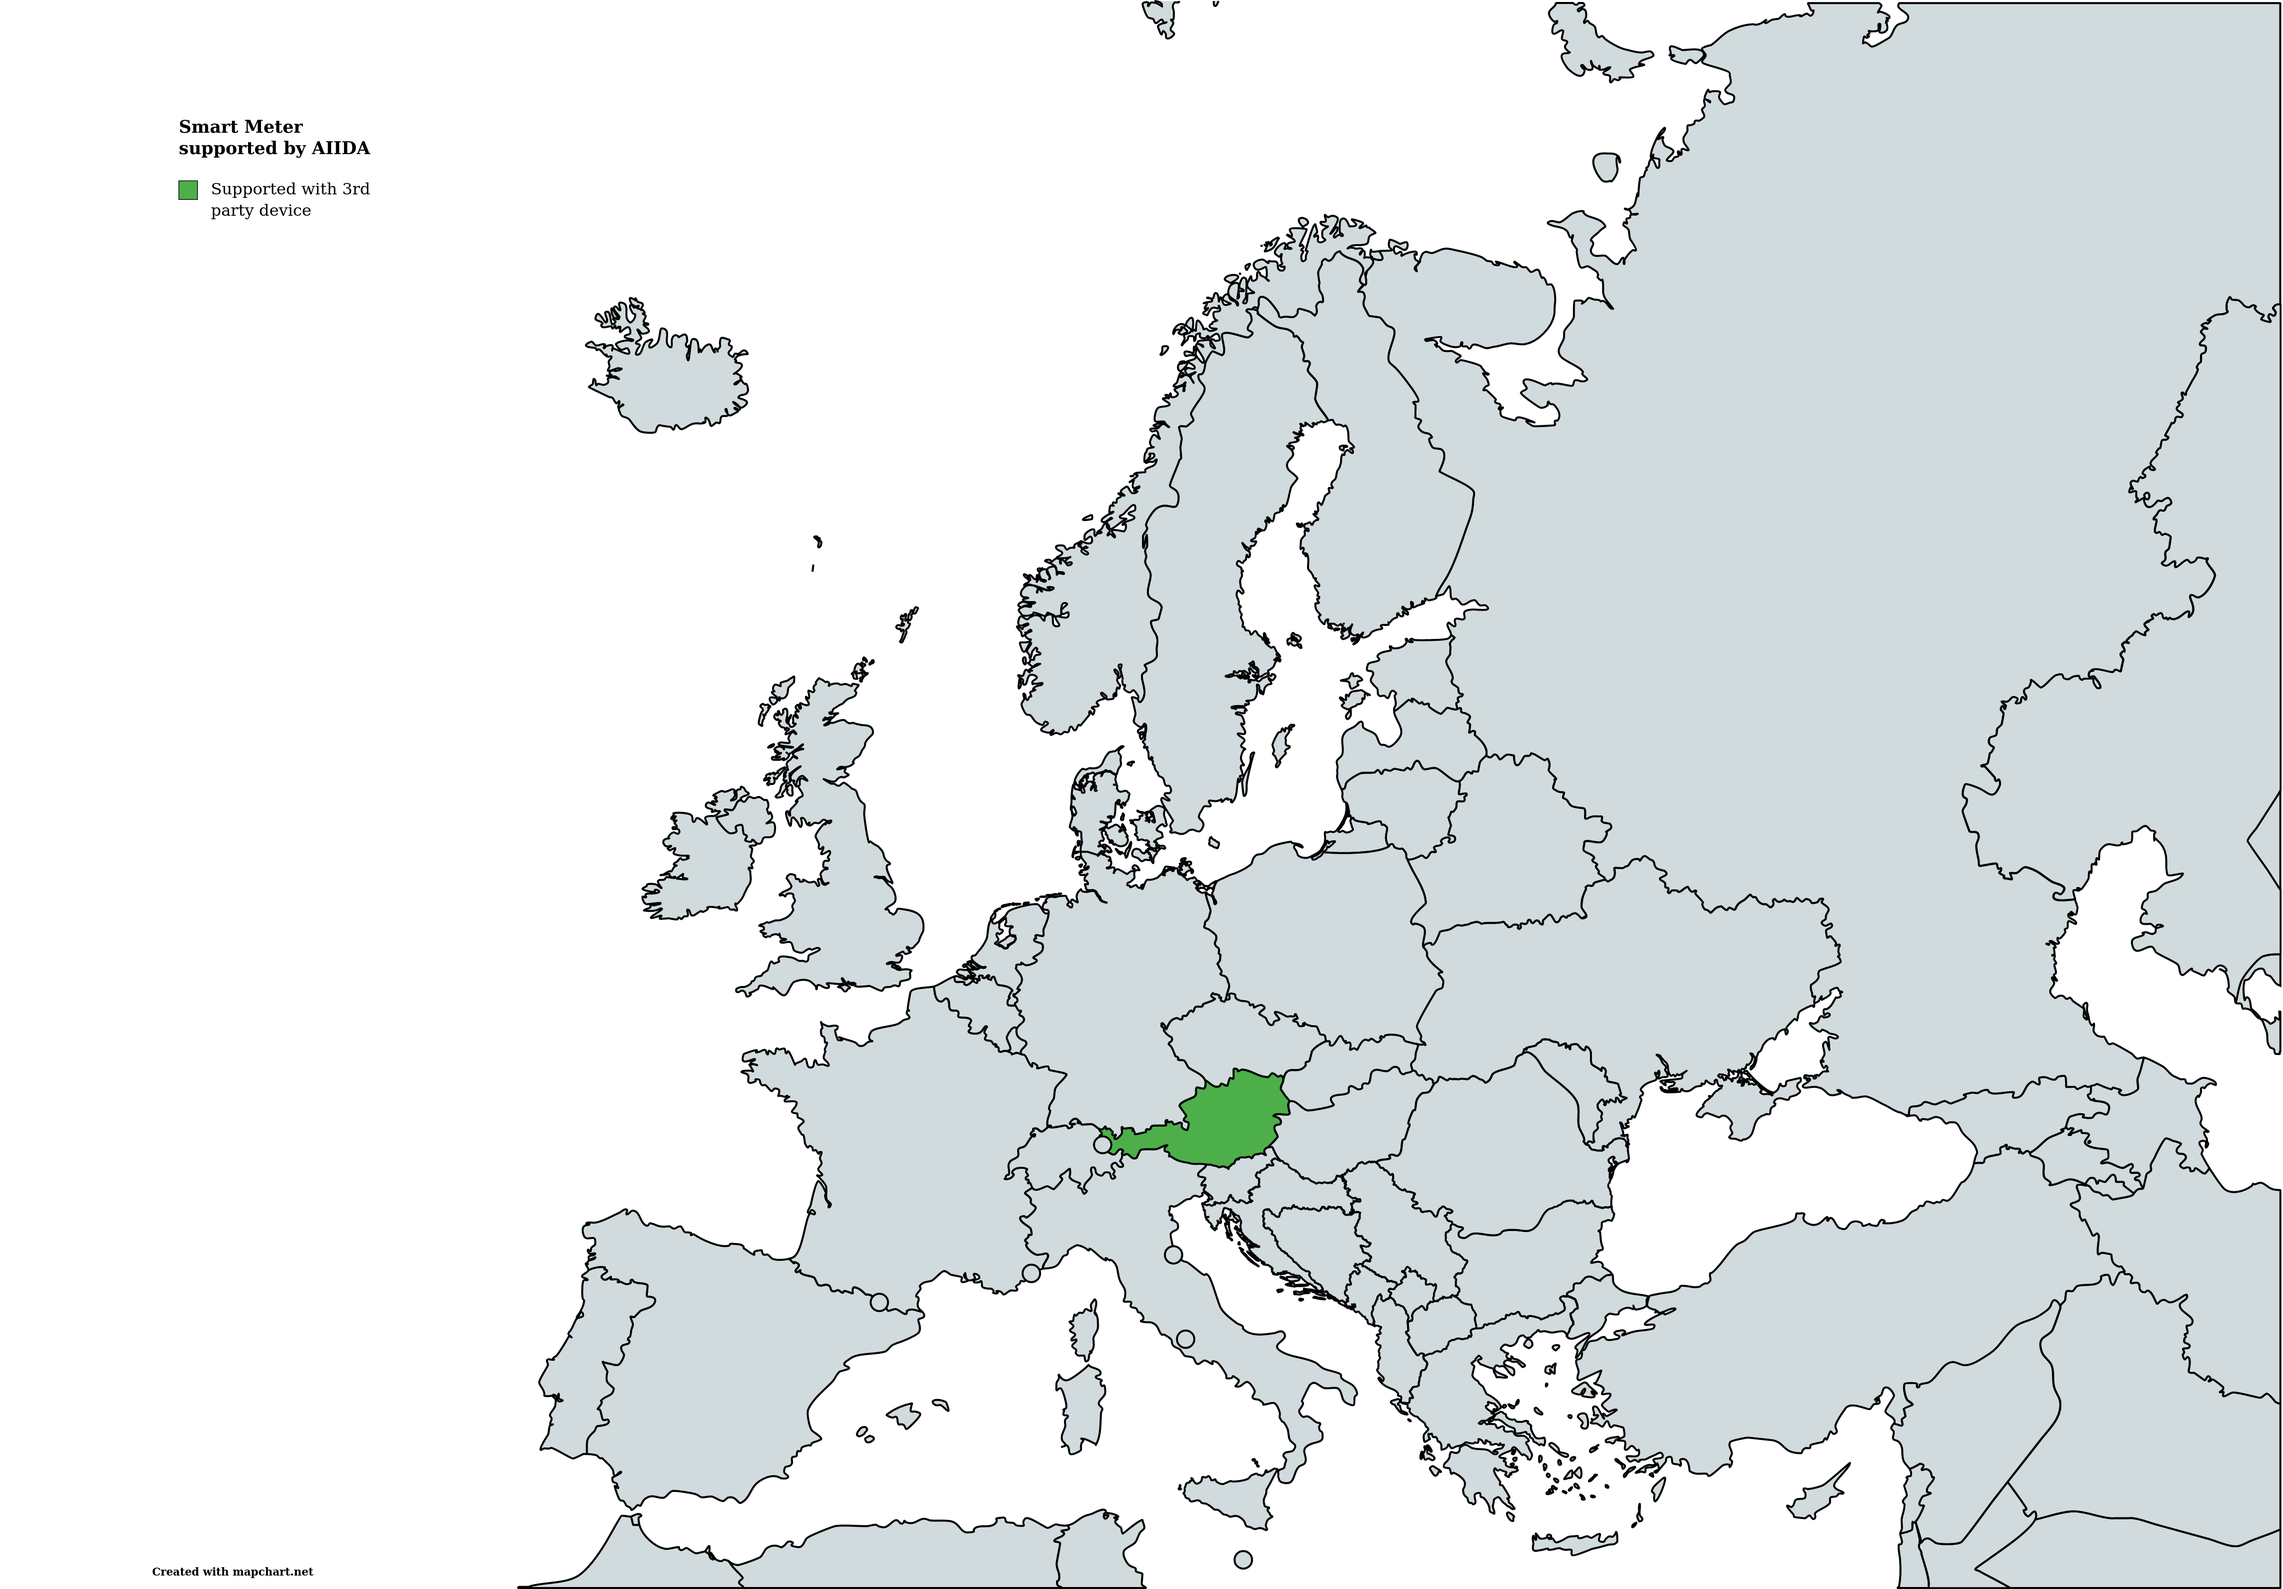
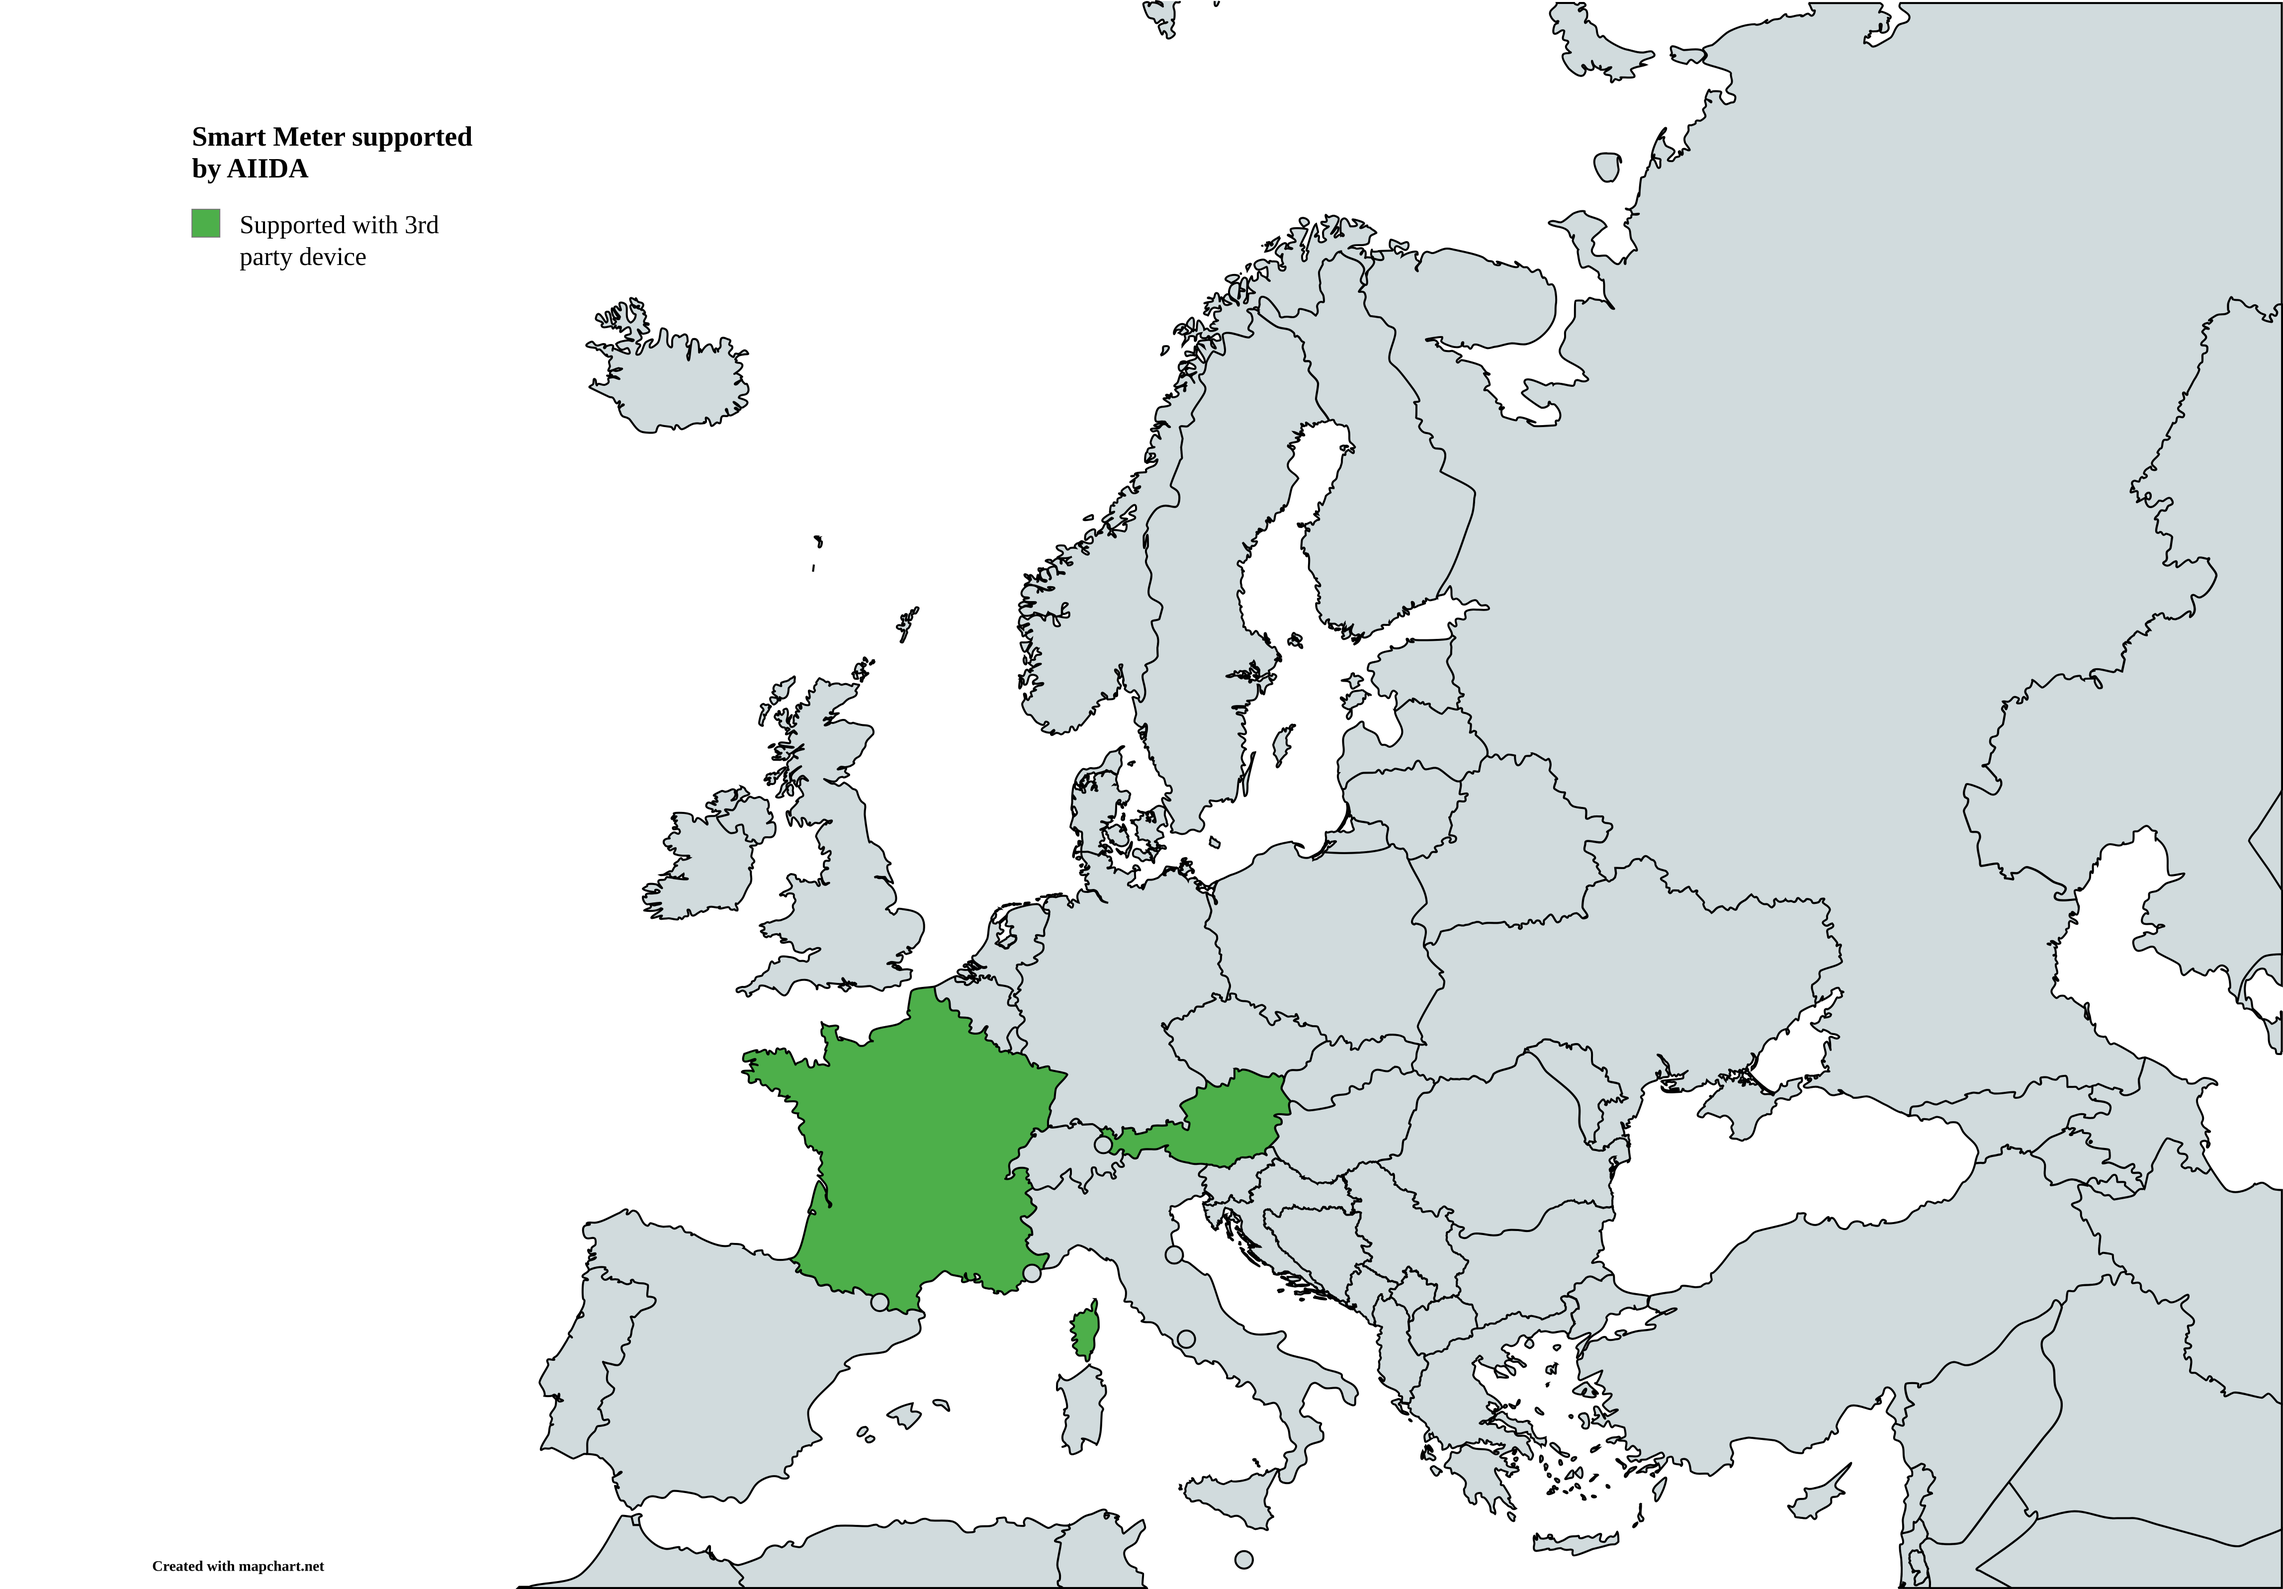
GH-1158 Update documentation

diff --git a/aiida/README.md b/aiida/README.md
@@ -3,17 +3,25 @@
 Development & Deployment Strategy can be
 found [here](https://github.com/eddie-energy/eddie/wiki/EDDIE-Development-&-Deployment-Strategy).
 
-## How to run
+## Prerequisites
 
-Use the following gradle task to run this spring boot application.
-Configuration via the [application.properties](src/main/resources/application.yml) file is necessary.
-Additionally, a [TimescaleDB](https://www.timescale.com/) has to be started manually.
+In order for AIIDA to run, it is necessary to start a [TimescaleDB](https://www.timescale.com/) and a [Keycloak](https://www.keycloak.org/) instance. The predefined docker-compose.yml for starting those services can be found in the [docker](docker) folder.
+In order to use Datasources that use MQTT a NanoMQ instances is required additionally, which is also included in the docker-compose.yml.
+Before starting the services, the environment variables in the [.env](docker/.env) file should be configured, especially the
+`SPRING_DATASOURCE_USERNAME` and
+`SPRING_DATASOURCE_PASSWORD`. This user will be used to authenticate to the TimescaleDB.
+
+### Run with Gradle
+
+For local development, the ports for the TimescaleDB must be exposed in order for the local AIIDA instance to connect to it, while the default KeyCloak configuration is sufficient.
+AIIDA has to be configured over the [application.properties](src/main/resources/application.yml) file. Especially the
+`spring.datasource` properties have to be configured according to TimescaleDB.
 
 - `./gradlew bootRun`
 
 The permissions REST API will be exposed on the [default Spring Boot port (localhost:8080)](http://localhost:8080)
 
-### Docker
+### Run with Docker
 
 AIIDA is also available as a docker image at
 the [GitHub registry](https://github.com/eddie-energy/eddie/pkgs/container/aiida).
@@ -23,27 +31,31 @@ includes a TimescaleDB and Keycloak.
 Once started, you can access the AIIDA Web-UI at the default location: http://localhost:8080
 
 ## Authentication with Keycloak
+
 The [example docker compose file](docker/compose.yml) includes a keycloak instance with a preconfigured user named
 `aiida`, with the password `aiida`.
 
 The preconfigured keycloak includes an EDDIE realm with the AIIDA client, that is used for authentication.
 The client secret of the AIIDA client is set to `REPLACE_ME` and can be regenerated in the admin console, which is
 reachable at http://localhost:8888.
-The keycloak admin user is configured in the [.env](docker/.env) file and has by default the username `admin` and the 
+The keycloak admin user is configured in the [.env](docker/.env) file and has by default the username `admin` and the
 password `admin`.
 
-If a different keycloak instance should be used, it can be configured in the 
+If a different keycloak instance should be used, it can be configured in the
 [application.yml](src/main/resources/application.yml) file or using environment variables.
 
 When AIIDA is started locally for development it can lead to unexpected logouts, since both the example app and AIIDA use the same session ID (JSESSIONID) per default.
-To overcome this issue, the property `server.servlet.session.cookie.name` can e.g. be set to `AIIDA_SESSION_ID`, which will fix the unexpected behaviour.  
-***Important:*** This is only relevant during development, because usually AIIDA and EDDIE services are not deployed using the same host (localhost for the case of development).
+To overcome this issue, the property `server.servlet.session.cookie.name` can e.g. be set to
+`AIIDA_SESSION_ID`, which will fix the unexpected behaviour.  
+**Important:**
+This is only relevant during development, because usually AIIDA and EDDIE services are not deployed using the same host (localhost for the case of development).
 
 ### EDDIE Keycloak Theme
-The current version of the EDDIE keycloak theme includes some very simple modifications only for the login page.
-The source code  and instructions can be found within the [keycloak eddie theme folder](../keycloak-eddie-theme).
 
-## AIIDA configuration
+The current version of the EDDIE keycloak theme includes some very simple modifications only for the login page.
+The source code and instructions can be found within the [keycloak eddie theme folder](../keycloak-eddie-theme).
+
+## AIIDA Configuration
 
 Several configurations can be applied through environment variables or the _application.properties_ file.
 When using Docker, most of these properties should be configured in the [.env](docker/.env) file.
@@ -57,13 +69,13 @@ When using Docker, most of these properties should be configured in the [.env](d
 | KEYCLOAK_CLIENT            | Name of the Keycloak client                 |
 | KEYCLOAK_CLIENT_SECRET     | The client secret for the Keycloak client   |
 
-## API documentation
+## API Documentation
 
 OpenAPI documentation can be found here: http://localhost:8080/v3/api-docs
 
 SwaggerUI is also included and can be found here: http://localhost:8080/swagger-ui/index.html
 
-# Supported datasources
+# Supported Smart Meters
 
 Smart meters are the primary datasources and are gradually integrated in AIIDA. Data from all datasources is
 automatically persisted in the TimescaleDB.
@@ -73,6 +85,7 @@ Currently, the following countries are supported:
 | Country | Name of datasource                                                              |
 |---------|---------------------------------------------------------------------------------|
 | Austria | [OesterreichsEnergieAdapter](docs/datasources/at/OesterreichsEnergieAdapter.md) |
+| France  | [MicroTeleinfoV3](docs/datasources/fr/MicroTeleinfoV3.md)                       |
 
 ![SupportedMeters](docs/Smart_Meter_supported_by_AIIDA.png)
 *Map created with https://www.mapchart.net*

diff --git a/aiida/docs/datasources/fr/MicroTeleinfoV3.md b/aiida/docs/datasources/fr/MicroTeleinfoV3.md
@@ -28,17 +28,17 @@ Otherwise, both of the following commands can be useful to troubleshoot the moun
 2. `sudo lsusb -v` prints information about connected USB hardware devices
 
 The USB dongle must now be connected to the Linky smart meter via 2 small cables, like a telephone wire.
-As mentioned in the official [GitHub documentation](https://github.com/hallard/uTeleinfo), the cables must then be connected
-to the smart meter **I1** and **I2
-** interface. Now a blue LED must flash very quickly which indicates a present teleinfo signal.
+As mentioned in the official [GitHub documentation](https://github.com/hallard/uTeleinfo), the cables must then be
+connected to the smart meter **I1** and **I2** interface.
+Now a blue LED must flash very quickly which indicates a present teleinfo signal.
 In order to test this connection refer to the GitHub documentation mentioned above.
 
 ## Publish incoming data to MQTT
 
 A simple way to publish the serial data to MQTT and to retrieve it with AIIDA, is the [teleinfo2mqtt image](https://github.com/fmartinou/teleinfo2mqtt).
-This image connects itself with MicroTeleinfoV3, sanitizes the retrieved data and publishes the data to a specified topic in a raw and sanitized format.
-The topic it publishes to is <mqtt-base-topic>/<electricity-meter-id>, where <mqtt-base-topic> is **teleinfo
-** by default.
+This image connects itself with MicroTeleinfoV3, sanitizes the retrieved data and publishes the data to a specified
+topic in a raw and sanitized format. The topic it publishes to is <mqtt-base-topic>/<electricity-meter-id>, where
+<mqtt-base-topic> is **teleinfo** by default.
 The <electricity-meter-id> must be evaluated beforehand and has to be added to the datasource configuration.
 To see all configuration options of the image please refer to the official [documentation](https://fmartinou.github.io/teleinfo2mqtt/#/configuration/).
 The .env-fr-teleinfo file provides the most important configuration values with mostly prefilled valus which can be used.
@@ -58,14 +58,13 @@ TZ=Europe/Paris
 
 ## How to use with AIIDA
 
-In order to add the MicroTeleinfoV3 as datasource in AIIDA, the properties of the datasource have to be adapted correctly.
-The datasource has to be enabled, an ID has to be assigned to it and the broker uri to where the datasource should connect has to be added.
-The default topic of the teleinfo image is **teleinfo**, if the **$MQTT_BASE_TOPIC
-** of the image's configuration has been changed, the value has to be adapted in this configuration too.
+In order to add the MicroTeleinfoV3 as datasource in AIIDA, the properties of the datasource have to be adapted
+correctly. The datasource has to be enabled, an ID has to be assigned to it and the broker uri to where the datasource
+should connect has to be added. The default topic of the teleinfo image is **teleinfo**, if the `MQTT_BASE_TOPIC` of the
+image's configuration has been changed, the value has to be adapted in this configuration too.
 Provide the username and password in order to authenticate to the MQTT broker you want to connect to if necessary or leave empty.
-Lastly, add the **metering ID
-** of the Linky smart meter to this configuration. The image publishes the data by default to the topic teleinfo/*
-*metering-id**.
+Lastly, add the **metering ID** of the Linky smart meter to this configuration.
+The image publishes the data by default to the topic`teleinfo/<metering-id>`.
 Please do not manually add the metering ID to the mqtt-subscribe-topic property, just provide the metering ID to the dedicated property.
 
 Example of a working configuration:

diff --git a/docs/1-running/region-connectors/region-connector-aiida.md b/docs/1-running/region-connectors/region-connector-aiida.md
@@ -94,25 +94,6 @@ broker.
 
 ## EMQX MQTT broker
 
-EMQX MQTT broker supports authentication and authorization using PostgreSQL as backend. Visit the dashboard of the
-broker (by default running on port 18083), to add the database as source for authentication and authorization.
-The following two SQL queries can be used in combination with the above tables for authentication and authorization
-respectively.
-
-```SQL
-SELECT password_hash
-FROM aiida.aiida_mqtt_user
-WHERE username = ${username}
-LIMIT 1;
-
-SELECT LOWER(action) AS action, LOWER(acl_type) AS permission, topic
-FROM aiida.aiida_mqtt_acl
-WHERE username = ${username};
-```
-
-Note that while enums are often used in uppercase, EMQX requires the `action` and `acl_type` to be in lowercase and
-named `action` and `permission` respectively.
-
 Please ensure, that you use a dedicated database user for the EMQX broker, and that you grant this user read permissions
 to the `aiida.aiida_mqtt_user` and `aiida.aiida_mqtt_acl` tables.
 
@@ -123,3 +104,49 @@ GRANT SELECT ON aiida.aiida_mqtt_acl TO emqx;
 GRANT SELECT ON aiida.aiida_mqtt_user TO emqx;
 GRANT CONNECT ON DATABASE eddie TO emqx;
 ```
+
+EMQX MQTT broker supports authentication and authorization using PostgreSQL as backend, which should use a dedicated
+user as seen above.
+In order to add the EDDIE database for authentication and authorization, visit the dashboard of the broker
+(by default running on port 18083).
+Add the EDDIE database as source for authentication and authorization.
+
+### Authentication
+
+Select the **Authentication** tab, select **password-based** and then **PostgresDB**.
+It is necessary to fill out the server address of the database, the database name and the credentials of the dedicated
+user with which EMQX should connect.
+For authentication, it is necessary to choose the **password hash** to be **bcrypt**.
+Lastly, add the following SQL query to fetch the password hash for the given username.
+
+```SQL
+SELECT password_hash
+FROM aiida.aiida_mqtt_user
+WHERE username = ${username}
+LIMIT 1;
+```
+
+### Authorization
+
+Select the **Authorization** tab and select **PostgresDB**.
+It is necessary to fill out the server address of the database, the database name and the credentials of the dedicated
+user with which EMQX should connect.
+Lastly, add the following SQL query to fetch the permissions for the given username.
+
+```SQL
+SELECT LOWER(action) AS action, LOWER(acl_type) AS permission, topic
+FROM aiida.aiida_mqtt_acl
+WHERE username = ${username};
+```
+
+Note that while enums are often used in uppercase, EMQX requires the `action` and `acl_type` to be in lowercase and
+named `action` and `permission` respectively.
+
+### Troubleshooting
+
+When the EDDIE framework tries to connect to the MQTT broker anonymously, it is possible that the connection is refused.
+To prevent this, it is possible to create a dedicated EMQX user for the EDDIE framework, which is used for the connection.
+You can create the user by visiting the EMQX dashboard. Select the **Authentication** tab, select **password-based** and
+then **Built-in Database
+**. Here it is now possible to create user which can then be used by the AIIDA Region Connector by
+adding it to the `region-connector.aiida.mqtt.username` and `region-connector.aiida.mqtt.password` configuration values.
